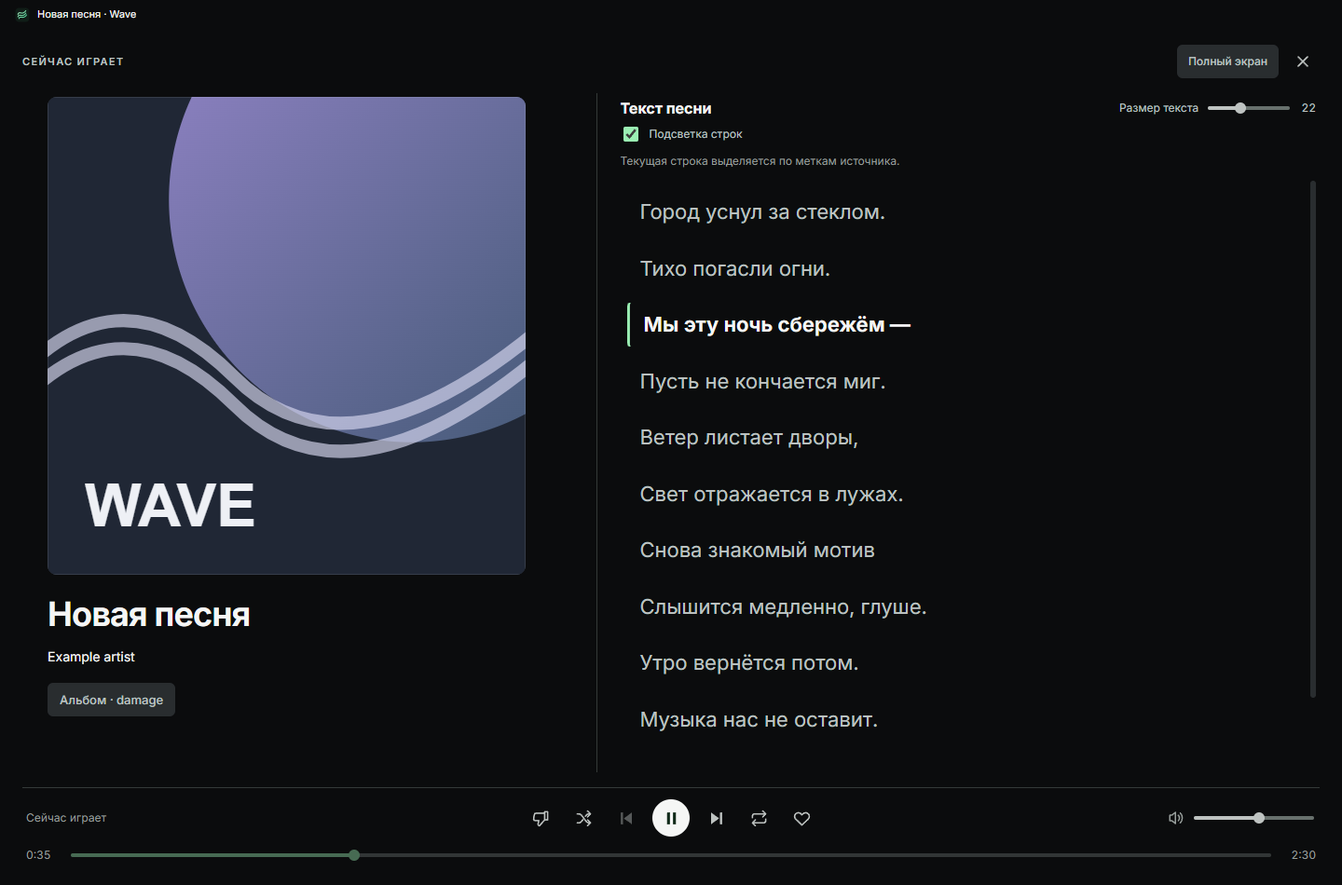
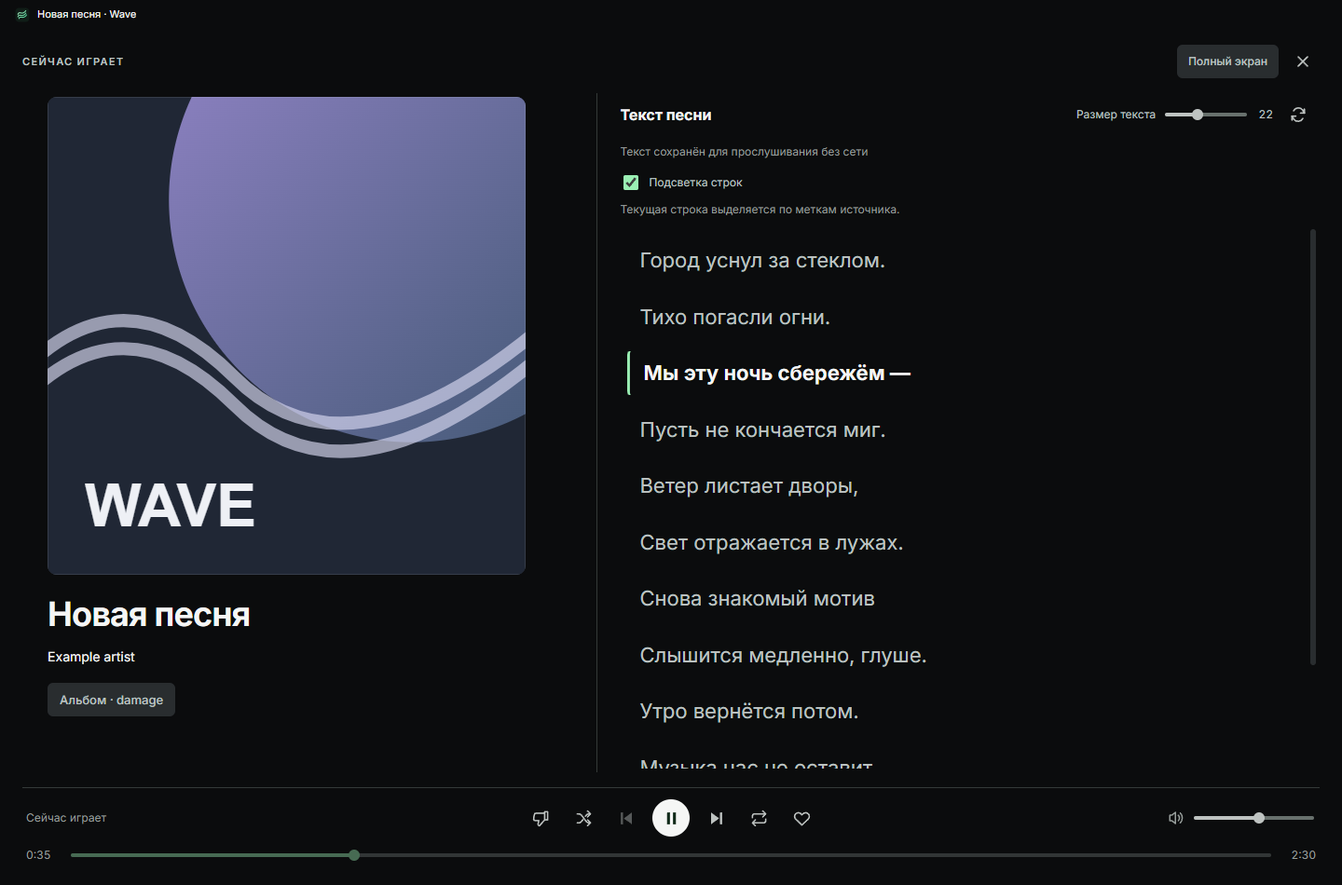
Save downloaded song lyrics permanently in Wave 1.2.2

diff --git a/src/renderer/song-view.js b/src/renderer/song-view.js
@@ -13,10 +13,10 @@
  function pauseFollow(){const box=$('song-synced-lyrics');box.scrollTo({top:box.scrollTop,behavior:'instant'});if(!lines.length||!$('lyrics-sync').checked)return;follow=false;$('lyrics-follow').classList.remove('hidden');}
  let transportAt=0;function tick(){if(!dialog.open)return;if(performance.now()-transportAt>=100){syncTransport();transportAt=performance.now();}const next=$('lyrics-sync').checked?timing.current(lines,position()):-1;if(next===active)return;if(lineNodes[active]){lineNodes[active].classList.remove('is-current');lineNodes[active].removeAttribute('aria-current');}active=next;if(lineNodes[active]){lineNodes[active].classList.add('is-current');lineNodes[active].setAttribute('aria-current','true');if(follow)scrollToActive();}}
  function syncTextMode(){const hasText=!!($('song-lyrics').textContent||lines.some(line=>line.text)),enabled=lines.length>0&&$('lyrics-sync').checked;document.querySelector('.lyrics-options').classList.toggle('hidden',!hasText);$('lyrics-size').disabled=!hasText;$('song-lyrics').classList.toggle('hidden',enabled);$('song-synced-lyrics').classList.toggle('hidden',!enabled);$('lyrics-sync').disabled=!lines.length;$('lyrics-follow').classList.toggle('hidden',!enabled||follow);setText($('lyrics-timing-note'),!hasText?'':lines.length?(enabled?'Текущая строка выделяется по меткам источника.':'Показан обычный текст.'):'Для этой записи нет подтверждённых временных меток.');active=-1;for(const node of lineNodes){node.classList.remove('is-current');node.removeAttribute('aria-current');}tick();}
- function renderLyrics(result){lines=timing.normalize(result.timings||[]);if(!lines.length)lines=timing.parse(result.syncedLyrics||'');lineNodes=[];active=-1;follow=true;setText($('song-lyrics'),result.text||lines.map(line=>line.text).join('\n'));$('song-synced-lyrics').replaceChildren();const fragment=document.createDocumentFragment();for(const line of lines){const p=el('button','lyric-line',line.text||' ');p.type='button';p.title='Перейти к '+format(line.time);p.setAttribute('aria-label',(line.text||'Пауза')+' · '+format(line.time));p.onclick=async()=>{if($('seek').disabled||state.busy)return;follow=true;$('lyrics-follow').classList.add('hidden');$('seek').value=String(line.time);await $('seek').onchange();tick();};lineNodes.push(p);fragment.append(p);}$('song-synced-lyrics').append(fragment);const hasText=!!result.text||lines.some(line=>line.text);setText($('lyrics-status'),hasText?'':'Текст песни не найден');if(hasText){for(const box of [$('song-lyrics'),$('song-synced-lyrics')]){const footer=el('footer','lyrics-attribution');footer.append(el('span','','Источник: '+(result.source||'VK')));if(result.url){const link=el('a','lyrics-source-link','Открыть источник');link.href=result.url;link.onclick=event=>{event.preventDefault();call('openLyricsSource',result.url).catch(()=>{});};footer.append(document.createTextNode(' · '),link);}if(result.credits)footer.append(el('p','',result.credits));box.append(footer);}}$('song-lyrics').scrollTop=0;$('song-synced-lyrics').scrollTop=0;syncTextMode();}
- async function lyrics(force=false){const t=state.current;if(!t)return;const contentKey=JSON.stringify([t.key||t.id,t.title,t.artist,t.duration]);if(!force&&lyricsId===contentKey)return;lyricsId=contentKey;const ticket=++request;$('lyrics-retry').classList.add('hidden');const cached=results.get(contentKey);if(cached&&cached.expires>Date.now()&&!force){results.delete(contentKey);results.set(contentKey,cached);renderLyrics(cached.result);$('song-lyrics-panel').setAttribute('aria-busy','false');return;}lines=[];lineNodes=[];active=-1;setText($('song-lyrics'),'');$('song-synced-lyrics').replaceChildren();setText($('lyrics-status'),'Ищем текст песни…');setText($('lyrics-timing-note'),'');$('lyrics-sync').disabled=true;$('lyrics-follow').classList.add('hidden');$('song-lyrics-panel').setAttribute('aria-busy','true');try{const result=await call('lyrics',t.id,{refresh:force});if(ticket!==request||state.current?.id!==t.id)return;remember(contentKey,result);renderLyrics(result);}catch(e){if(ticket!==request||state.current?.id!==t.id)return;setText($('lyrics-status'),e.message||'Не удалось загрузить текст. Повторите попытку.');$('lyrics-retry').classList.remove('hidden');}finally{if(ticket===request)$('song-lyrics-panel').setAttribute('aria-busy','false');}}
+ function renderLyrics(result){lines=timing.normalize(result.timings||[]);if(!lines.length)lines=timing.parse(result.syncedLyrics||'');lineNodes=[];active=-1;follow=true;setText($('song-lyrics'),result.text||lines.map(line=>line.text).join('\n'));$('song-synced-lyrics').replaceChildren();const fragment=document.createDocumentFragment();for(const line of lines){const p=el('button','lyric-line',line.text||' ');p.type='button';p.title='Перейти к '+format(line.time);p.setAttribute('aria-label',(line.text||'Пауза')+' · '+format(line.time));p.onclick=async()=>{if($('seek').disabled||state.busy)return;follow=true;$('lyrics-follow').classList.add('hidden');$('seek').value=String(line.time);await $('seek').onchange();tick();};lineNodes.push(p);fragment.append(p);}$('song-synced-lyrics').append(fragment);const hasText=!!result.text||lines.some(line=>line.text);setText($('lyrics-status'),result.storageWarning|| (result.refreshWarning?'Не удалось обновить. Показан сохранённый текст.':result.offlineMissing?'Текст ещё не сохранён. Откройте его с подключением к сети.':hasText?(result.offlineSaved?'Текст сохранён для прослушивания без сети':''):'Текст песни не найден'));if(hasText){for(const box of [$('song-lyrics'),$('song-synced-lyrics')]){const footer=el('footer','lyrics-attribution');footer.append(el('span','','Источник: '+(result.source||'VK')));if(result.url){const link=el('a','lyrics-source-link','Открыть источник');link.href=result.url;link.onclick=event=>{event.preventDefault();call('openLyricsSource',result.url).catch(()=>{});};footer.append(document.createTextNode(' · '),link);}if(result.credits)footer.append(el('p','',result.credits));box.append(footer);}}$('song-lyrics').scrollTop=0;$('song-synced-lyrics').scrollTop=0;syncTextMode();}
+ async function lyrics(force=false){const t=state.current;if(!t)return;const contentKey=JSON.stringify([t.key||t.id,t.title,t.artist,t.duration]);const requestKey=contentKey+':'+String(state.online);if(!force&&lyricsId===requestKey)return;lyricsId=requestKey;const ticket=++request;$('lyrics-retry').classList.add('hidden');const cached=results.get(contentKey);if(cached&&cached.expires>Date.now()&&!force&&!(cached.result.offlineMissing&&state.online)){results.delete(contentKey);results.set(contentKey,cached);renderLyrics(cached.result);$('song-lyrics-panel').setAttribute('aria-busy','false');return;}if(force&&cached?.result.text)renderLyrics(cached.result);else{lines=[];lineNodes=[];active=-1;setText($('song-lyrics'),'');$('song-synced-lyrics').replaceChildren();setText($('lyrics-status'),'Ищем текст песни…');setText($('lyrics-timing-note'),'');$('lyrics-sync').disabled=true;$('lyrics-follow').classList.add('hidden');}setText($('lyrics-status'),state.online?'Ищем текст песни…':'Открываем сохранённый текст…');$('lyrics-refresh').disabled=true;$('song-lyrics-panel').setAttribute('aria-busy','true');try{const result=await call('lyrics',t.id,{refresh:force});if(ticket!==request||state.current?.id!==t.id)return;remember(contentKey,result);renderLyrics(result);}catch(e){if(ticket!==request||state.current?.id!==t.id)return;if(cached?.result.text){renderLyrics(cached.result);setText($('lyrics-status'),'Не удалось обновить. Показан прежний текст.');}else{setText($('lyrics-status'),e.message||'Не удалось загрузить текст. Повторите попытку.');$('lyrics-retry').classList.toggle('hidden',!state.online);}}finally{if(ticket===request){$('song-lyrics-panel').setAttribute('aria-busy','false');$('lyrics-refresh').disabled=!state.online;}}}
  function syncTransport(){if(!clockVisible())return;const t=state.current,elapsed=position();if(!seeking){const seek=$('song-seek'),max=String(state.duration||0),value=String(elapsed);if(seek.max!==max)seek.max=max;if(seek.value!==value)seek.value=value;setText($('song-elapsed'),format(elapsed));const label=format(elapsed)+' из '+format(state.duration);if(seek.getAttribute('aria-valuetext')!==label)seek.setAttribute('aria-valuetext',label);}setText($('song-duration'),format(state.duration));const disabled=$('seek').disabled||!t;if($('song-seek').disabled!==disabled)$('song-seek').disabled=disabled;if(!volumeDragging){$('song-volume').value=String(state.volume);setText($('song-volume-value'),Math.round(state.volume*100)+'%');}if($('song-volume').disabled!==$('volume').disabled)$('song-volume').disabled=$('volume').disabled;window.WaveUI?.ranges(dialog);}
- function controls(){scheduleClock();const t=state.current;syncTransport();const signature=JSON.stringify([t?.id,t?.owned,t?.local,state.localRevision,hasNextTrack(),!!previousTrack(),t?.albumTitle,t?.albumId,t?.albumTitleConfirmed,playable(t),state.online,state.nativePlayback,state.collectionBusy,state.busy,state.playing,state.shuffle,state.repeat,dialog.open,!!window.WaveLikes?.pending(t?.id),$('toggle').disabled,$('next').disabled,$('previous').disabled]);if(controlSignature===signature)return;controlSignature=signature;for(const id of ['now-heart','song-heart']){const b=$(id),owned=t?.owned===true,label=owned?'Удалить из «Мне нравится»':'Добавить в «Мне нравится»';b.disabled=!t||!state.online||state.collectionBusy||!!window.WaveLikes?.pending(t?.id)||!has('mutate');b.classList.toggle('is-liked',owned);b.setAttribute('aria-pressed',String(owned));b.title=label;b.setAttribute('aria-label',label);b.setAttribute('aria-busy',String(!!state.collectionBusy||!!window.WaveLikes?.pending(t?.id)));}if(!dialog.open)return;for(const id of ['previous','toggle','next','shuffle','repeat']){const b=$('song-'+id);b.disabled=id==='toggle'?(!state.online&&!state.nativePlayback)||!playable(t):id==='next'?(!state.online&&!t?.local)||!hasNextTrack():id==='previous'?(!state.online&&!t?.local)||!previousTrack():state.busy;setIcon(b,id==='toggle'?(state.playing||state.busy?'pause':'play'):id==='repeat'&&state.repeat==='one'?'repeatOne':id);b.setAttribute('aria-label',id==='toggle'?(state.playing||state.busy?'Пауза':'Воспроизвести'):id==='repeat'?repeatLabel():id==='shuffle'?'Перемешать список':id==='next'?'Следующая песня':'Предыдущая песня');if(['shuffle','repeat'].includes(id)){const on=id==='shuffle'?state.shuffle:state.repeat!=='off';b.classList.toggle('active',on);b.setAttribute('aria-pressed',String(on));}}setText($('song-state'),state.busy?'Подключаем песню…':!playable(t)?'Недоступна в VK':state.playing?'Сейчас играет':'На паузе');$('song-album').disabled=albumPending||!t||!state.online&&!t.albumId;setText($('song-album'),t?.albumTitle&&(t.albumTitleConfirmed||!window.WaveAlbumMeta?.provisional(t.albumTitle))?'Альбом · '+t.albumTitle:'Открыть альбом');}
+ function controls(){scheduleClock();const refreshDisabled=!state.online||$('song-lyrics-panel').getAttribute('aria-busy')==='true';if($('lyrics-refresh').disabled!==refreshDisabled)$('lyrics-refresh').disabled=refreshDisabled;const t=state.current;syncTransport();const signature=JSON.stringify([t?.id,t?.owned,t?.local,state.localRevision,hasNextTrack(),!!previousTrack(),t?.albumTitle,t?.albumId,t?.albumTitleConfirmed,playable(t),state.online,state.nativePlayback,state.collectionBusy,state.busy,state.playing,state.shuffle,state.repeat,dialog.open,!!window.WaveLikes?.pending(t?.id),$('toggle').disabled,$('next').disabled,$('previous').disabled]);if(controlSignature===signature)return;controlSignature=signature;for(const id of ['now-heart','song-heart']){const b=$(id),owned=t?.owned===true,label=owned?'Удалить из «Мне нравится»':'Добавить в «Мне нравится»';b.disabled=!t||!state.online||state.collectionBusy||!!window.WaveLikes?.pending(t?.id)||!has('mutate');b.classList.toggle('is-liked',owned);b.setAttribute('aria-pressed',String(owned));b.title=label;b.setAttribute('aria-label',label);b.setAttribute('aria-busy',String(!!state.collectionBusy||!!window.WaveLikes?.pending(t?.id)));}if(!dialog.open)return;for(const id of ['previous','toggle','next','shuffle','repeat']){const b=$('song-'+id);b.disabled=id==='toggle'?(!state.online&&!state.nativePlayback)||!playable(t):id==='next'?(!state.online&&!t?.local)||!hasNextTrack():id==='previous'?(!state.online&&!t?.local)||!previousTrack():state.busy;setIcon(b,id==='toggle'?(state.playing||state.busy?'pause':'play'):id==='repeat'&&state.repeat==='one'?'repeatOne':id);b.setAttribute('aria-label',id==='toggle'?(state.playing||state.busy?'Пауза':'Воспроизвести'):id==='repeat'?repeatLabel():id==='shuffle'?'Перемешать список':id==='next'?'Следующая песня':'Предыдущая песня');if(['shuffle','repeat'].includes(id)){const on=id==='shuffle'?state.shuffle:state.repeat!=='off';b.classList.toggle('active',on);b.setAttribute('aria-pressed',String(on));}}setText($('song-state'),state.busy?'Подключаем песню…':!playable(t)?'Недоступна в VK':state.playing?'Сейчас играет':'На паузе');$('song-album').disabled=albumPending||!t||!state.online&&!t.albumId;setText($('song-album'),t?.albumTitle&&(t.albumTitleConfirmed||!window.WaveAlbumMeta?.provisional(t.albumTitle))?'Альбом · '+t.albumTitle:'Открыть альбом');}
  async function openAlbum(){const t=state.current;if(!t||albumPending)return;albumPending=true;$('song-album').disabled=true;$('song-album').setAttribute('aria-busy','true');try{const album=await call('trackAlbum',t.id);if(state.current?.id!==t.id)return;if(!album){notice('У этой записи в VK не указан альбом.');return;}window.WaveAlbumMeta?.apply(album,t.id);t.albumId=album.id;t.albumTitle=album.title;if(album.confirmed)t.albumTitleConfirmed=true;close();await navigate({type:'album',id:album.id,title:album.title,cover:album.cover});}catch(e){if(state.current?.id===t.id){notice(e.message);if(!dialog.open)fail(e);}}finally{$('song-album').setAttribute('aria-busy','false');albumPending=false;controlSignature='';controls();}}
  function heart(){const t=state.current;if(!t||!state.online||state.collectionBusy)return;if(window.WaveLikes)return window.WaveLikes.toggle(t);if(t.owned){collectionDialog('Удалить из «Мне нравится»?');setText($('collection-help'),'«'+t.title+'» исчезнет из вашей коллекции. Её можно добавить снова.');$('collection-confirm').classList.remove('hidden');$('collection-confirm').classList.add('danger-action');setText($('collection-confirm'),'Удалить песню');$('collection-confirm').onclick=()=>synchronise({action:'unlike',trackId:t.id});window.WaveDialogs?.focus($('collection-dialog'));}else synchronise({action:'like',trackId:t.id});}
  function update(){controls();if(!dialog.open)return;const t=state.current;if(!t){close();return;}const signature=JSON.stringify([t.id,t.title,t.artist,t.cover,t.artists,t.albumTitle]);if(signature!==metadata){metadata=signature;window.WaveTransitions?.fade(document.querySelector('.song-record'),t.id);notice('');setText($('song-title'),t.title);setText($('song-window-caption'),t.title+' · Wave');setText($('song-context'),t.title+' · '+t.artist);$('song-cover').replaceChildren(coverNode(t.cover,'song-cover-image'));const authors=artistLinks(t,'artist-links');for(const [index,b] of [...authors.querySelectorAll('button')].entries())b.onclick=e=>{e.stopPropagation();close();openArtist(t,index);};$('song-artists').replaceChildren(authors);}lyrics();tick();}
@@ -26,7 +26,7 @@
  function receive(data){if(typeof data.mainVisible==='boolean'){mainVisible=data.mainVisible;scheduleClock();if(clockVisible())tick();}nativeFullscreen=data.fullscreen===true;document.body.classList.toggle('song-fullscreen',nativeFullscreen);$('song-fullscreen').setAttribute('aria-pressed',String(nativeFullscreen));setText($('song-fullscreen'),nativeFullscreen?'Выйти из полного экрана':'Полный экран');if(!prefsPending&&data.prefs){const font=String(data.prefs.lyricsFontSize||22),sync=data.prefs.lyricsSync!==false,fontChanged=$('lyrics-size').value!==font,syncChanged=$('lyrics-sync').checked!==sync;if(fontChanged){$('lyrics-size').value=font;applySize();}if(syncChanged){$('lyrics-sync').checked=sync;if(dialog.open)syncTextMode();}}}
  function applySize(){const size=Number($('lyrics-size').value)||22;dialog.style.setProperty('--lyrics-size',size+'px');setText($('lyrics-size-value'),String(size));$('lyrics-size').setAttribute('aria-valuetext',size+' '+(trackPlural.select(size)==='one'?'пиксель':trackPlural.select(size)==='few'?'пикселя':'пикселей'));}
  function savePrefs(){prefsPending=true;const ticket=++prefsTicket;clearTimeout(saveTimer);saveTimer=setTimeout(async()=>{saveTimer=null;try{if(has('desktop'))requireResult(await api.desktop('configure',{lyricsFontSize:Number($('lyrics-size').value),lyricsSync:$('lyrics-sync').checked}));}catch(e){notice('Не удалось сохранить настройку текста. Повторите изменение.');}finally{if(ticket===prefsTicket)prefsPending=false;}},180);}
- for(const id of ['now-heart','song-heart'])$(id).onclick=heart;$('song-close').onclick=close;$('now-art').onclick=open;for(const id of ['previous','toggle','next','shuffle','repeat'])$('song-'+id).onclick=()=>$(id).click();$('song-album').onclick=openAlbum;$('lyrics-retry').onclick=()=>lyrics(true);$('song-fullscreen').disabled=!has('desktop');$('song-fullscreen').onclick=()=>fullscreen(!nativeFullscreen);$('lyrics-size').oninput=()=>{prefsPending=true;applySize();};$('lyrics-size').addEventListener('blur',()=>{if(prefsPending&&!saveTimer)savePrefs();});$('lyrics-size').onchange=savePrefs;$('lyrics-sync').onchange=()=>{syncTextMode();savePrefs();};$('lyrics-follow').onclick=()=>{follow=true;$('lyrics-follow').classList.add('hidden');scrollToActive();$('song-synced-lyrics').focus({preventScroll:true});};
+ for(const id of ['now-heart','song-heart'])$(id).onclick=heart;$('song-close').onclick=close;$('now-art').onclick=open;for(const id of ['previous','toggle','next','shuffle','repeat'])$('song-'+id).onclick=()=>$(id).click();$('song-album').onclick=openAlbum;$('lyrics-retry').onclick=$('lyrics-refresh').onclick=()=>lyrics(true);$('song-fullscreen').disabled=!has('desktop');$('song-fullscreen').onclick=()=>fullscreen(!nativeFullscreen);$('lyrics-size').oninput=()=>{prefsPending=true;applySize();};$('lyrics-size').addEventListener('blur',()=>{if(prefsPending&&!saveTimer)savePrefs();});$('lyrics-size').onchange=savePrefs;$('lyrics-sync').onchange=()=>{syncTextMode();savePrefs();};$('lyrics-follow').onclick=()=>{follow=true;$('lyrics-follow').classList.add('hidden');scrollToActive();$('song-synced-lyrics').focus({preventScroll:true});};
  for(const box of [$('song-lyrics'),$('song-synced-lyrics')]){box.addEventListener('wheel',pauseFollow,{passive:true});box.addEventListener('touchstart',pauseFollow,{passive:true});box.addEventListener('pointerdown',pauseFollow);box.addEventListener('keydown',e=>{if(['ArrowUp','ArrowDown','PageUp','PageDown','Home','End'].includes(e.key))pauseFollow();});}
  $('song-seek').oninput=()=>{if(!seeking)seekTrack=state.current?.id;seeking=true;setText($('song-elapsed'),format(Number($('song-seek').value)));$('song-seek').setAttribute('aria-valuetext',format(Number($('song-seek').value))+' из '+format(state.duration));};$('song-seek').onchange=async()=>{const value=Number($('song-seek').value);seeking=false;if(state.current?.id!==seekTrack||$('seek').disabled)return;$('seek').value=String(value);try{await $('seek').onchange();}finally{tick();}};$('song-seek').addEventListener('pointercancel',()=>{seeking=false;syncTransport();});$('song-seek').addEventListener('blur',()=>{seeking=false;syncTransport();});
  $('song-volume').oninput=$('song-volume').onchange=()=>{$('volume').value=$('song-volume').value;setText($('song-volume-value'),Math.round(Number($('song-volume').value)*100)+'%');changeVolume();};$('song-volume').addEventListener('pointerdown',()=>volumeDragging=true);for(const event of ['pointerup','pointercancel','blur'])window.addEventListener(event,()=>{volumeDragging=false;});

diff --git a/src/renderer/index.html b/src/renderer/index.html
@@ -8,7 +8,7 @@
 <footer class="player"><div class="now"><button type="button" id="now-art" class="now-art" aria-label="Открыть песню и текст" title="Открыть песню и текст">♫</button><div class="now-copy"><button type="button" id="now-title" class="now-name" aria-label="Открыть сведения о песне">Выберите песню</button><div id="now-artist" class="now-artist"></div></div></div><div class="transport"><div class="transport-buttons"><button id="shuffle" data-icon="shuffle" class="icon mode-button" aria-label="Перемешать список" aria-pressed="false" title="Перемешать список">⤨</button><button id="previous" data-icon="previous" class="icon" aria-label="Предыдущий трек" disabled>Ⅰ◀&#65038;</button><button id="toggle" data-icon="play" class="play-toggle" aria-label="Воспроизвести" disabled>▶&#65038;</button><button id="next" data-icon="next" class="icon" aria-label="Следующий трек" disabled>▶&#65038;Ⅰ</button><button id="repeat" data-icon="repeat" class="icon mode-button" aria-label="Повтор выключен" title="Повтор выключен">↻</button><button id="now-heart" type="button" class="icon heart-button" data-icon="heart" aria-label="Добавить в «Мне нравится»" aria-pressed="false" disabled></button></div><div class="progress"><span id="elapsed">0:00</span><input id="seek" aria-label="Позиция воспроизведения" type="range" min="0" max="0" value="0" step="1" disabled><span id="duration">0:00</span></div></div><div class="player-right"><label class="volume-control" title="Громкость"><span aria-hidden="true" data-icon="volume"></span><input id="volume" type="range" min="0" max="1" value="1" step="0.01" aria-label="Громкость" disabled></label><span id="volume-value">50%</span><span id="play-state">WAVE / VK</span></div></footer><dialog id="collection-dialog" class="modal-overlay hidden" role="dialog" aria-modal="true" aria-labelledby="collection-dialog-title"><form id="collection-form" class="modal-card"><h2 id="collection-dialog-title">Коллекция</h2><p id="collection-help" class="muted"></p><input id="collection-input" aria-describedby="collection-help" class="hidden" maxlength="100" autocomplete="off"><select id="collection-select" aria-describedby="collection-help" class="hidden" aria-label="Плейлист"></select><div id="collection-options"></div><div class="modal-buttons"><button id="collection-cancel" type="button" class="secondary">Закрыть</button><button id="collection-confirm" type="button" class="primary hidden">Сохранить</button></div></form></dialog><dialog id="sync-dialog" class="modal-overlay hidden" role="dialog" aria-modal="true" aria-labelledby="sync-heading"><section class="modal-card"><div class="section-head"><h2 id="sync-heading">Синхронизация с VK</h2><button id="sync-close" class="secondary">Закрыть</button></div><div id="sync-list" aria-live="polite"></div></section></dialog><dialog id="song-dialog" class="modal-overlay hidden" aria-labelledby="song-title"><section class="song-card"><div class="window-titlebar song-window-titlebar" aria-hidden="true"><div class="window-titlebar-content"><img src="../../assets/icons/wave.png" alt=""><span id="song-window-caption" class="window-caption">Wave</span></div></div>
 <header class="song-top"><div><p class="eyebrow">СЕЙЧАС ИГРАЕТ</p><p id="song-context" class="hidden"></p></div><div class="song-top-actions"><button id="song-fullscreen" class="secondary" aria-pressed="false">Полный экран</button><button id="song-close" class="icon" data-icon="close" aria-label="Закрыть песню" title="Закрыть · Escape"></button></div></header>
 <div class="song-layout"><section class="song-record"><div id="song-cover" class="song-cover" aria-hidden="true"></div><h2 id="song-title"></h2><div id="song-artists"></div><button id="song-album" class="song-album secondary">Открыть альбом</button><p id="song-notice" role="status"></p></section>
-<section id="song-lyrics-panel" class="lyrics-panel" aria-labelledby="lyrics-heading"><div class="lyrics-heading-row"><h3 id="lyrics-heading">Текст песни</h3><div class="lyrics-size-control"><label for="lyrics-size">Размер текста</label><input id="lyrics-size" type="range" min="16" max="32" step="2" value="22"><output id="lyrics-size-value" for="lyrics-size">22</output></div></div><p id="lyrics-status" role="status"></p><div class="lyrics-options"><label><input id="lyrics-sync" type="checkbox" checked disabled> Подсветка строк</label><button id="lyrics-follow" class="secondary hidden">К текущей строке</button></div><p id="lyrics-timing-note" class="muted"></p><div id="song-lyrics" tabindex="0" role="region" aria-label="Текст песни"></div><div id="song-synced-lyrics" class="hidden" tabindex="0" role="region" aria-label="Синхронный текст песни"></div><button id="lyrics-retry" class="secondary hidden">Повторить загрузку</button></section></div>
+<section id="song-lyrics-panel" class="lyrics-panel" aria-labelledby="lyrics-heading"><div class="lyrics-heading-row"><h3 id="lyrics-heading">Текст песни</h3><div class="lyrics-size-control"><label for="lyrics-size">Размер текста</label><input id="lyrics-size" type="range" min="16" max="32" step="2" value="22"><output id="lyrics-size-value" for="lyrics-size">22</output><button id="lyrics-refresh" class="icon" data-icon="refresh" title="Обновить текст" aria-label="Обновить текст"></button></div></div><p id="lyrics-status" role="status"></p><div class="lyrics-options"><label><input id="lyrics-sync" type="checkbox" checked disabled> Подсветка строк</label><button id="lyrics-follow" class="secondary hidden">К текущей строке</button></div><p id="lyrics-timing-note" class="muted"></p><div id="song-lyrics" tabindex="0" role="region" aria-label="Текст песни"></div><div id="song-synced-lyrics" class="hidden" tabindex="0" role="region" aria-label="Синхронный текст песни"></div><button id="lyrics-retry" class="secondary hidden">Повторить загрузку</button></section></div>
 <footer class="song-footer"><div class="song-footer-top"><p id="song-state"></p><div class="song-transport" role="group" aria-label="Управление песней"><button id="song-shuffle" class="icon mode-button" data-icon="shuffle" aria-label="Перемешать список" aria-pressed="false"></button><button id="song-previous" class="icon" data-icon="previous" aria-label="Предыдущая песня"></button><button id="song-toggle" class="play-toggle" data-icon="play" aria-label="Воспроизвести"></button><button id="song-next" class="icon" data-icon="next" aria-label="Следующая песня"></button><button id="song-repeat" class="icon mode-button" data-icon="repeat" aria-label="Повтор выключен" aria-pressed="false"></button><button id="song-heart" class="icon heart-button" data-icon="heart" aria-label="Добавить в «Мне нравится»" aria-pressed="false"></button></div><label class="song-volume"><span data-icon="volume" aria-hidden="true"></span><input id="song-volume" type="range" min="0" max="1" step="0.01" value="0.5" aria-label="Громкость"><output id="song-volume-value" for="song-volume">50%</output></label></div><div class="song-progress"><span id="song-elapsed">0:00</span><input id="song-seek" type="range" min="0" max="0" step="1" value="0" aria-label="Позиция воспроизведения" disabled><span id="song-duration">0:00</span></div></footer></section></dialog><script src="motion.js"></script><script src="icons.js"></script><script src="toasts.js"></script><script src="vendor/hls.min.js"></script><script src="equalizer.js"></script><script src="media-player.js"></script><script src="volume-writer.js"></script><script src="image-cache.js"></script><script src="virtual-list.js"></script><script src="track-wave.js"></script><script src="app.js"></script><script src="account-updates.js"></script><script src="windows-integration.js"></script><script src="playback-transitions.js"></script><script src="account-profile.js"></script><script src="window-chrome.js"></script><script src="responsive-library.js"></script><script src="lyrics-timing.js"></script><script src="album-meta.js"></script><script src="song-view.js"></script><script src="equalizer-controls.js"></script><script src="music-links.js"></script><script src="search-ui.js"></script><script src="artist-ui.js"></script><script src="playlist-editor.js"></script><script src="library-menus.js"></script><script src="library-panel.js"></script><script src="library-view.js"></script><script src="library-folders.js"></script><script src="selection-model.js"></script><script src="collection-tools.js"></script><script src="mouse-navigation.js"></script><script src="ui-polish.js"></script><script src="home-feed-ui.js"></script><script src="personal.js"></script><script src="mix-ui.js"></script><script src="mix-feedback.js"></script><script src="likes.js"></script><script src="row-actions.js"></script><script src="keyboard.js"></script><script src="settings-layout.js"></script><script src="playlist-controls.js"></script><script src="select-controls.js"></script><script src="collection-management-ui.js"></script><script src="hero-details.js"></script><script src="artist-navigation.js"></script><script src="dialog-manager.js"></script><script src="motion-details.js"></script></body></html>
 
 

diff --git a/src/renderer/ui-polish.js b/src/renderer/ui-polish.js
@@ -8,6 +8,6 @@
  if(!document.getElementById('settings-dialog'))return;
  const section=document.createElement('section');section.className='shortcut-settings';section.innerHTML='<h3>Управление с клавиатуры</h3><p class="muted">Нажмите F1, чтобы открыть список сочетаний.</p><button id="shortcuts-open" class="secondary">Горячие клавиши</button>';document.querySelector('#settings-dialog .modal-card').append(section);
  const dialog=document.createElement('dialog');dialog.id='shortcuts-dialog';dialog.className='modal-overlay hidden';dialog.setAttribute('aria-labelledby','shortcuts-heading');dialog.innerHTML='<section class="modal-card"><div class="section-head"><h2 id="shortcuts-heading">Горячие клавиши</h2><button id="shortcuts-close" class="secondary">Закрыть</button></div><dl class="shortcuts-list"><div><dt>Поиск музыки</dt><dd><kbd>Ctrl</kbd> <kbd>K</kbd></dd></div><div><dt>Воспроизведение / пауза</dt><dd><kbd>Пробел</kbd></dd></div><div><dt>Назад / вперёд</dt><dd><kbd>Alt</kbd> <kbd>←</kbd> / <kbd>→</kbd></dd></div><div><dt>Переход между песнями списка</dt><dd><kbd>↑</kbd> <kbd>↓</kbd></dd></div><div><dt>Начало / конец списка</dt><dd><kbd>Home</kbd> <kbd>End</kbd></dd></div><div><dt>Закрыть окно</dt><dd><kbd>Esc</kbd></dd></div></dl><p class="muted">Пробел ставит музыку на паузу и продолжает её после клика мышью. При навигации через Tab он нажимает выбранную кнопку. В полях ввода и на ползунках сохраняется обычное поведение клавиатуры. Ctrl+K работает также в русской раскладке и закрывает справку, настройки или развёрнутый плеер перед переходом в поиск. Левый Shift + левая кнопка мыши добавляет песню в выделение или снимает его. Ctrl+A выбирает все песни текущего списка, кроме поля ввода. Ctrl+Space переключает выделение песни с клавиатуры, Shift+F10 открывает меню выбранных, Escape снимает выделение. В «Скачанном» выделение отключено. Стрелки, Home и End работают при фокусе на названии или кнопке запуска песни. Боковые кнопки мыши — назад и вперёд. Мультимедийные клавиши работают через Windows.</p></section>';document.body.append(dialog);
- const about=document.createElement('footer');about.className='settings-about';about.innerHTML='<span>Wave</span><span id="settings-version">Версия 1.2.1</span>';document.querySelector('#settings-dialog .modal-card').append(about);
+ const about=document.createElement('footer');about.className='settings-about';about.innerHTML='<span>Wave</span><span id="settings-version">Версия 1.2.2</span>';document.querySelector('#settings-dialog .modal-card').append(about);
  document.getElementById('shortcuts-open').onclick=()=>dialog.classList.remove('hidden');document.getElementById('shortcuts-close').onclick=()=>dialog.classList.add('hidden');
 })();

diff --git a/docs/OFFLINE-LYRICS.md b/docs/OFFLINE-LYRICS.md
@@ -1,0 +1,23 @@
+# Тексты скачанных песен · 1.2.2
+
+Текст открывается обычной кнопкой песни. Если аудио скачано, положительный результат сохраняется рядом с ним; уже найденный результат из LyricsSources копируется после завершения скачивания. Никакого фонового поиска по старой коллекции нет. Сохранение не задерживает ready аудио, ошибка текста не превращает готовую песню в ошибку загрузки.
+
+## Файлы и индекс
+
+`<download UUID>.lyrics.json` содержит schema1, SHA-256 идентификатора аккаунта, VK-ключ исходной локальной записи, дату, нормализованные text/timings/syncedLyrics/source/credits/url. Текст и метки хранятся без TTL. Файл — обычный JSON без шифрования, как аудио/обложки; credentials и произвольные поля не копируются. Внешние ссылки ограничены существующим allowlist источников и открываются прежним проверяемым способом.
+
+Лимит файла2МиБ; размер и SHA-256 находятся в необязательном record.lyrics. Основной personal-index остаётся schema1; storageBytes аудио/обложки/метаданных не меняет смысла. Квота и usedBytes дополнительно учитывают lyrics.bytes. Бронирование использует общий budgetTail/reservations загрузчика и не забирает уже зарезервированное аудио место. Повторное сохранение одинакового текста не переписывает файл.
+
+Запись через уникальный temp с wx, затем rename. При чтении и перед фиксацией проверяются аккаунт, существование локальной записи и путь папки; symlink вместо sidecar не читается. При ошибке сохранения индекса восстанавливается прежнее содержимое/дескриптор. Текст всё равно можно прочитать онлайн, но интерфейс сообщает, что офлайн-сохранение не удалось. Отсутствие/повреждение файла не блокирует песню.
+
+## Получение и обновление
+
+Сначала читается постоянный sidecar, затем обычный кэш/сеть. «Обновить текст» принудительно обходит оба кэша, обновляет постоянную копию только положительным результатом. Пустой результат или ошибка оставляет прежнюю копию. Без сети кнопка недоступна; при отсутствии текста — объяснение без retry-loop. Обычные песни без локальной копии по-прежнему используют ограниченный TTL-кэш.
+
+downloadAliases связывают новый VK-ключ лайка с исходной локальной записью; для имени файла не используется присланный renderer путь. При удалении записи сначала сохраняется обновлённый индекс, затем последовательная очередь sidecar удаляет текст: ожидающее сохранение не может воскресить удалённую копию. Тексты другого аккаунта не отображаются.
+
+## Совместимость
+
+Старые1.2.x игнорируют record.lyrics. Если при откате старый клиент пересохранил индекс без этого поля, новая версия распознаёт оставшийся sidecar по UUID/аккаунту/ключу, нормализует содержимое и восстанавливает дескриптор. Если старый клиент удалил аудио, оставшийся текст самостоятельно не становится песней и не импортируется. Удаление sidecar вместе с аудио поддерживается начиная с1.2.2; пользователю не обещается новая логика удаления внутри старого приложения.
+
+Модули: src/main/lyrics/offline-lyrics.cjs, lyrics-service.cjs; интеграция main.cjs/provider.cjs/download-manager.cjs/personal-library.cjs; интерфейс song-view.js. Проверки — tests/offline-lyrics.test.cjs и native discovery UI. Реальная доступность текстов у внешних источников зависит от сети и самих источников.

diff --git a/releases/LATEST.md b/releases/LATEST.md
@@ -1,10 +1,13 @@
-# Wave 1.2.1
+# Wave 1.2.2
 
-Меньше лишней работы интерфейса при прослушивании музыки.
+Тексты скачанных песен теперь остаются доступны без сети.
 
-- Развёрнутый плеер перестаёт постоянно пересчитывать интерфейс на паузе и при скрытом основном окне. При возвращении отображение продолжается с текущего момента песни.
-- Подсветка текста обновляется независимо от частоты экрана; плавные переходы строк сохранены.
-- Неизменившееся состояние больше не отправляется повторно между окнами. Скрытый мини-плеер не получает лишние обновления, а при открытии показывает текущее состояние.
-- Убраны повторные записи одинаковых значений в элементы управления и подсказку трея.
+- Откройте текст скачанной песни онлайн один раз: Wave сохранит его вместе с временными метками и источником рядом с аудио. Если текст уже найден до скачивания, он сохранится после загрузки песни.
+- Сохранённый текст не исчезает через неделю и не вытесняется из обычного кэша. Синхронная подсветка и переход по строке работают без сети.
+- Рядом с размером текста появилась кнопка обновления. Если получить новый текст не удалось, прежний остаётся доступен.
+- Если текст ещё не сохранён, без сети показывается понятное сообщение. Бесконечных попыток загрузки нет.
+- При удалении локальной песни удаляется и связанный текст. Его размер учитывается в лимите хранилища.
 
-Воспроизведение и таймер сна продолжают работать в фоне. Обновление доступно в настройках Wave; вход, коллекция и скачанные песни сохраняются.
+Аудио становится готовым независимо от сохранения текста. Wave не обходит всю коллекцию ради загрузки текстов: для старых скачанных песен достаточно открыть текст при наличии сети.
+
+Обновление доступно в настройках Wave. Вход, настройки и скачанная музыка сохраняются.

diff --git a/docs/USER-GUIDE.md b/docs/USER-GUIDE.md
@@ -78,3 +78,9 @@
 Выбор пресета или движение полосы включает EQ. Ползунки расположены одним рядом; в узком окне ряд можно прокрутить. Включатель позволяет сравнить звук без обработки, «Сбросить» возвращает ровную кривую. Прежняя настройка переносится автоматически.
 
 «Не рекомендовать» находится слева от управления текущей песней, сердечко — справа. Результат подтверждается VK, в уведомлении доступна отмена. При неопределённом результате выберите «Проверить» перед повтором. В Миксе после подтверждения играет следующая песня; обычный открытый плейлист не перестраивается.
+
+## Тексты без сети
+
+Для скачанной песни откройте текст онлайн один раз. После сообщения «Текст сохранён для прослушивания без сети» он останется доступен после перезапуска, вместе с подсветкой и переходом по строкам, если у источника были метки. Если текст был найден до скачивания, он сохранится после загрузки аудио. Старые песни не обходятся автоматически.
+
+Кнопка обновления рядом с размером текста загружает свежую версию; при ошибке прежний текст сохраняется. Если не хватает места, проверьте свободное место и лимит скачанного — сама песня остаётся доступной. Удаление локальной копии удаляет и связанный текст. Тексты лежат рядом с аудио в обычных JSON-файлах без шифрования.

diff --git a/docs/CHANGELOG.md b/docs/CHANGELOG.md
@@ -1,5 +1,9 @@
 # Изменения
 
+## 1.2.2
+
+Постоянные тексты скачанных песен с временными метками и источником, отдельные от TTL-кэша. Явное обновление, сохранение прежнего при ошибке, офлайн-состояние без повторов, учёт места и удаление sidecar вместе с копией.
+
 ## 1.2.1
 
 Остановлен визуальный таймер плеера на паузе/в скрытом окне; подсветка работает с ограниченной частотой во время воспроизведения. Убраны повторные записи свойств ползунков, дубли desktop-state и обновления скрытого мини-плеера/неизменного tooltip трея. Измерения и границы — PERFORMANCE.md.

diff --git a/README.md b/README.md
@@ -26,7 +26,7 @@
 
 ## Текст рядом с песней
 
-В развёрнутом плеере обложка и сведения о песне находятся рядом с текстом. Если доступны временные метки, текущая строка подсвечивается, а нажатие на строку перематывает песню.
+В развёрнутом плеере обложка и сведения о песне находятся рядом с текстом. Если доступны временные метки, текущая строка подсвечивается, а нажатие на строку перематывает песню. Открытый текст скачанной песни сохраняется для прослушивания без сети.
 
 <details>
 <summary><strong>Посмотреть развёрнутый плеер</strong></summary>

diff --git a/docs/STRUCTURE.md b/docs/STRUCTURE.md
@@ -98,3 +98,5 @@ VK Микс1.2: [контракт и границы Alpha](VK-MIX.md). main/mix-
 Следующий этап Микса: [обратная связь и восстановление](VK-MIX-FEEDBACK.md); main/mix-feedback.cjs и renderer/mix-feedback.js отделены от мутаций коллекции.
 
 Аудио/EQ: [AUDIO-PIPELINE.md](AUDIO-PIPELINE.md). artwork-sources.cjs выбирает источник по размеру, artwork-content-cache.getSized выдаёт ограниченные варианты для интерфейса.
+
+Постоянные тексты скачанных песен1.2.2: [OFFLINE-LYRICS.md](OFFLINE-LYRICS.md); обычный TTL-кэш и его валидаторы сохраняются отдельно.
